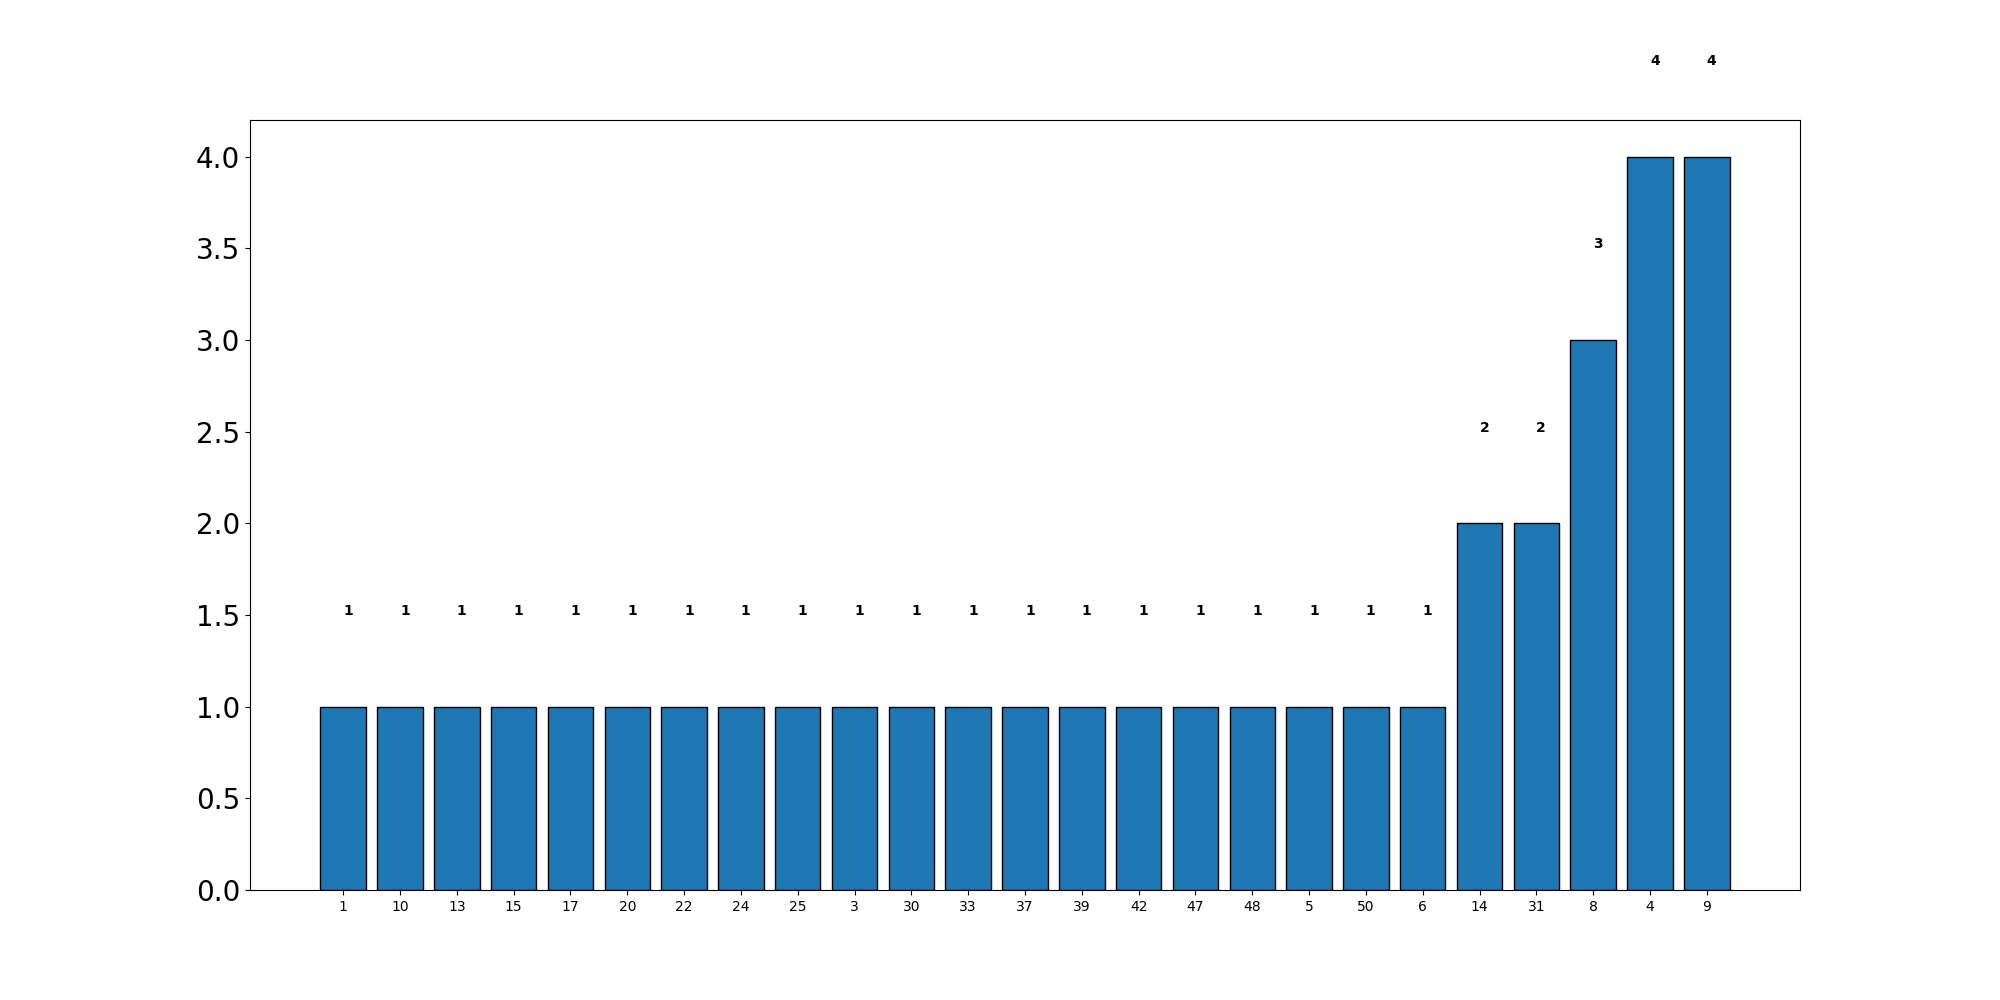
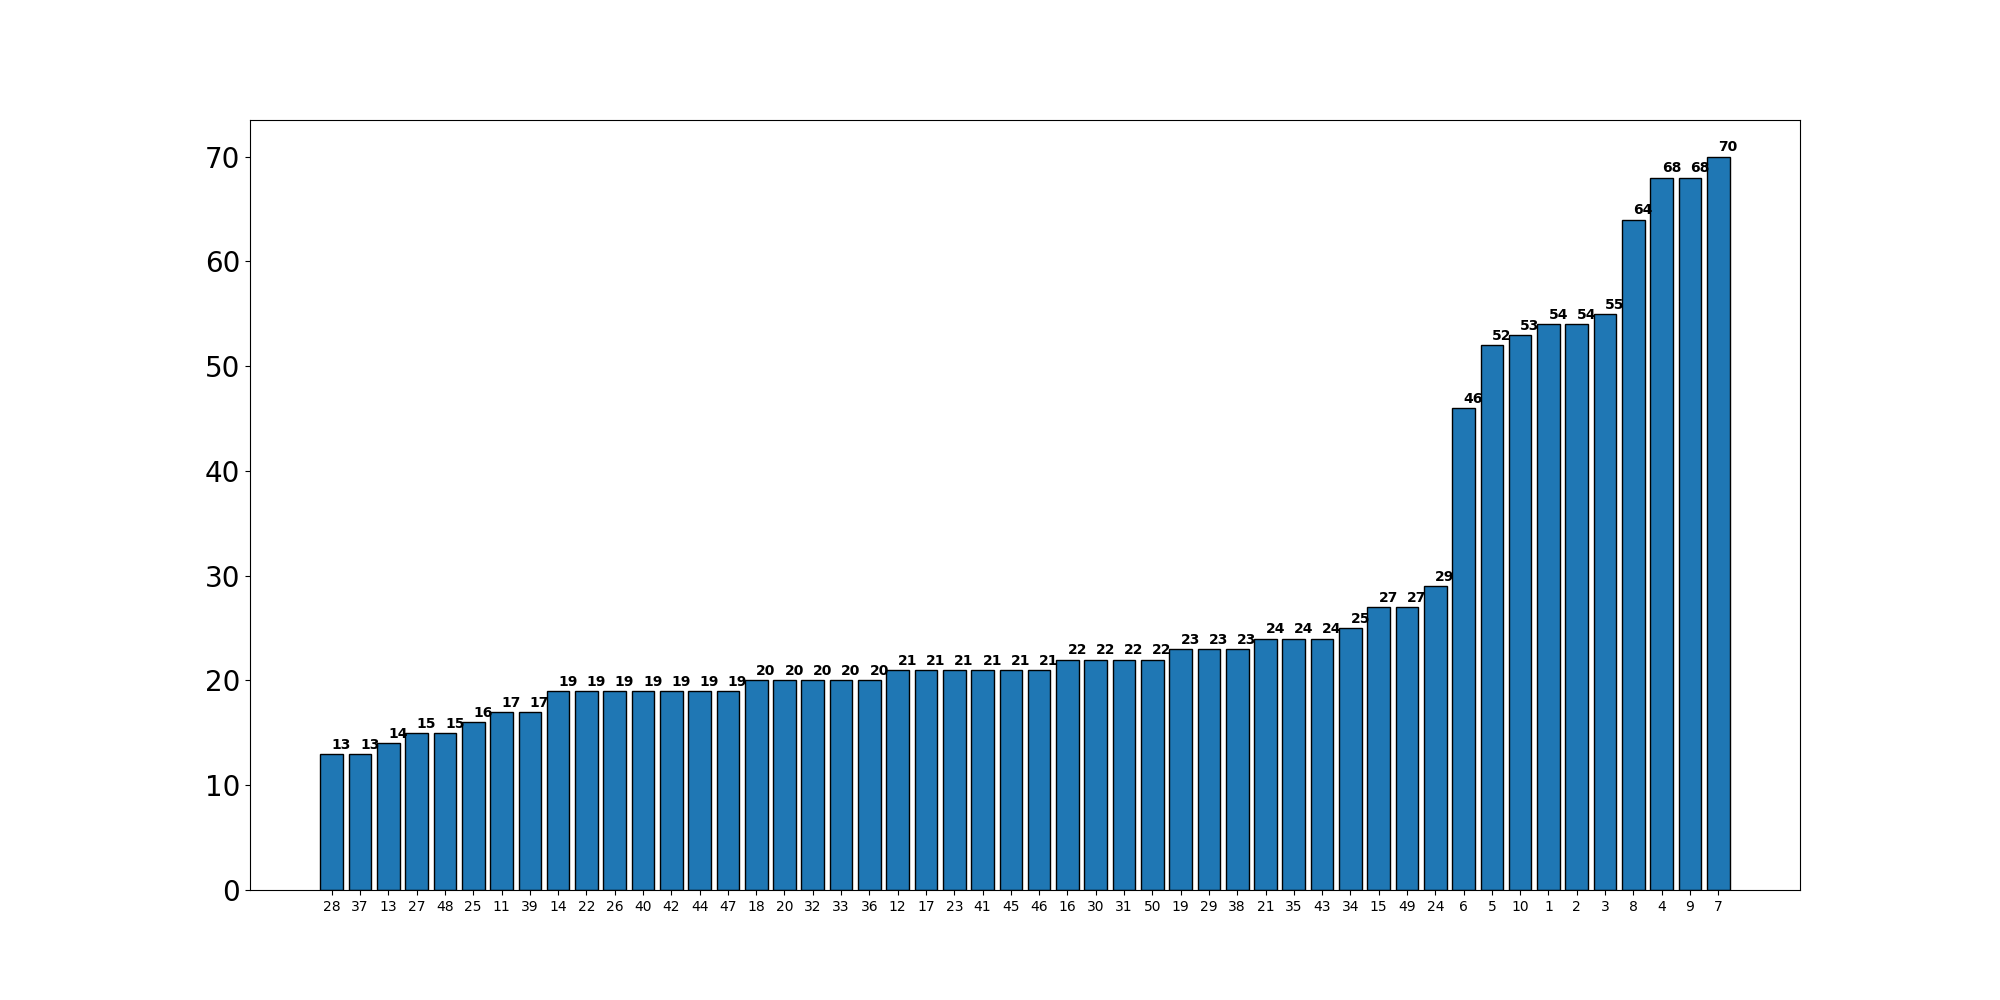
.

diff --git a/SeleniumEuroJackPot.py b/SeleniumEuroJackPot.py
@@ -1,41 +1,42 @@
 from selenium import webdriver
-import numpy as np
 import time
+import numpy as np
 import pandas as pd
 import matplotlib.pyplot as plt
-#test czy działa push
 
 driver = webdriver.Chrome('C:\chromedriver_win32\chromedriver.exe')
 driver.get('https://www.lotto.pl/eurojackpot/wyniki-i-wygrane')
+print("Strona została uruchomiona.")
 
 driver.implicitly_wait(10)
 skip1 = driver.find_element_by_xpath('//*[@id="__layout"]/div/div[2]/div[4]/div/div/div[3]/div[2]/div[3]/button')
 skip1.click()
 skip2 = driver.find_element_by_xpath('//*[@id="__layout"]/div/div[2]/div[4]/div/div/div[1]/div/div/div/div/button/i')
 skip2.click()
+print("Okienka zostały wyłączone.")
 
 # driver.implicitly_wait(30)
 # accept3 = driver.find_element_by_xpath('//*[@id="onesignal-slidedown-cancel-button"]')
 # accept3.click()
 
-# for more_sites in range(3):
-#     time.sleep(2)
-#     more_sites = driver.find_element_by_xpath('//*[@id="__layout"]/div/div[2]/div[4]/div/div/div[2]/div[3]/div/button/span')
-#     more_sites.click()
+for scroll_site in range(20):
+    time.sleep(2)
+    scroll_site = driver.find_element_by_xpath('//*[@id="__layout"]/div/div[2]/div[4]/div/div/div[2]/div[3]/div/button/span')
+    scroll_site.click()
+print("strona została przewinięta.")
 
 numerylos = []
-for i in driver.find_elements_by_class_name('result-item__number')[:10]:
+for i in driver.find_elements_by_class_name('result-item__number')[:420]:
     numerylos.append(i.text)
     numerylos[:] = [x for x in numerylos if x]  # usuwa puste elementy z listy
 
 numerywin = []
-for i in driver.find_elements_by_class_name('result-item__balls-box')[:5]:
+for i in driver.find_elements_by_class_name('result-item__balls-box')[:200]:
     numerywin.append(i.text.split('\n'))
 
 data = []
-for i in driver.find_elements_by_class_name('sg__desc-title')[:5]:
+for i in driver.find_elements_by_class_name('sg__desc-title')[:200]:
     data.append(i.text.strip(', godz. 20:00').strip('Pt., '))
-
 
 #zamiana list na numpy array
 numerylos = np.array(numerylos)
@@ -58,7 +59,8 @@ dict_win = dict(sorted(dict_win.items(), key=lambda item: item[1]))
 keys = dict_win.keys()
 values = dict_win.values()
 
-#pd.DataFrame(dict_los_win).to_csv("file.csv")
+pd.DataFrame(dict_los_win).to_csv("win_numbers.csv", header=["Nr", "Numer losowania", "Wylosowane 7 liczb","Data losowania","","","","",""])
+print("Liczby zostały zapisane w pliku win_numbers.csv")
 
 plt.figure(figsize=(20, 10))
 plt.xticks(fontsize = 10)
@@ -68,3 +70,4 @@ plt.bar(keys, values, edgecolor='black')
 for i, v in enumerate(values):
     plt.text(i, v+0.5, str(v), fontweight='bold')
 plt.savefig('chart.png')
+print("Wykres został utworzony.")
